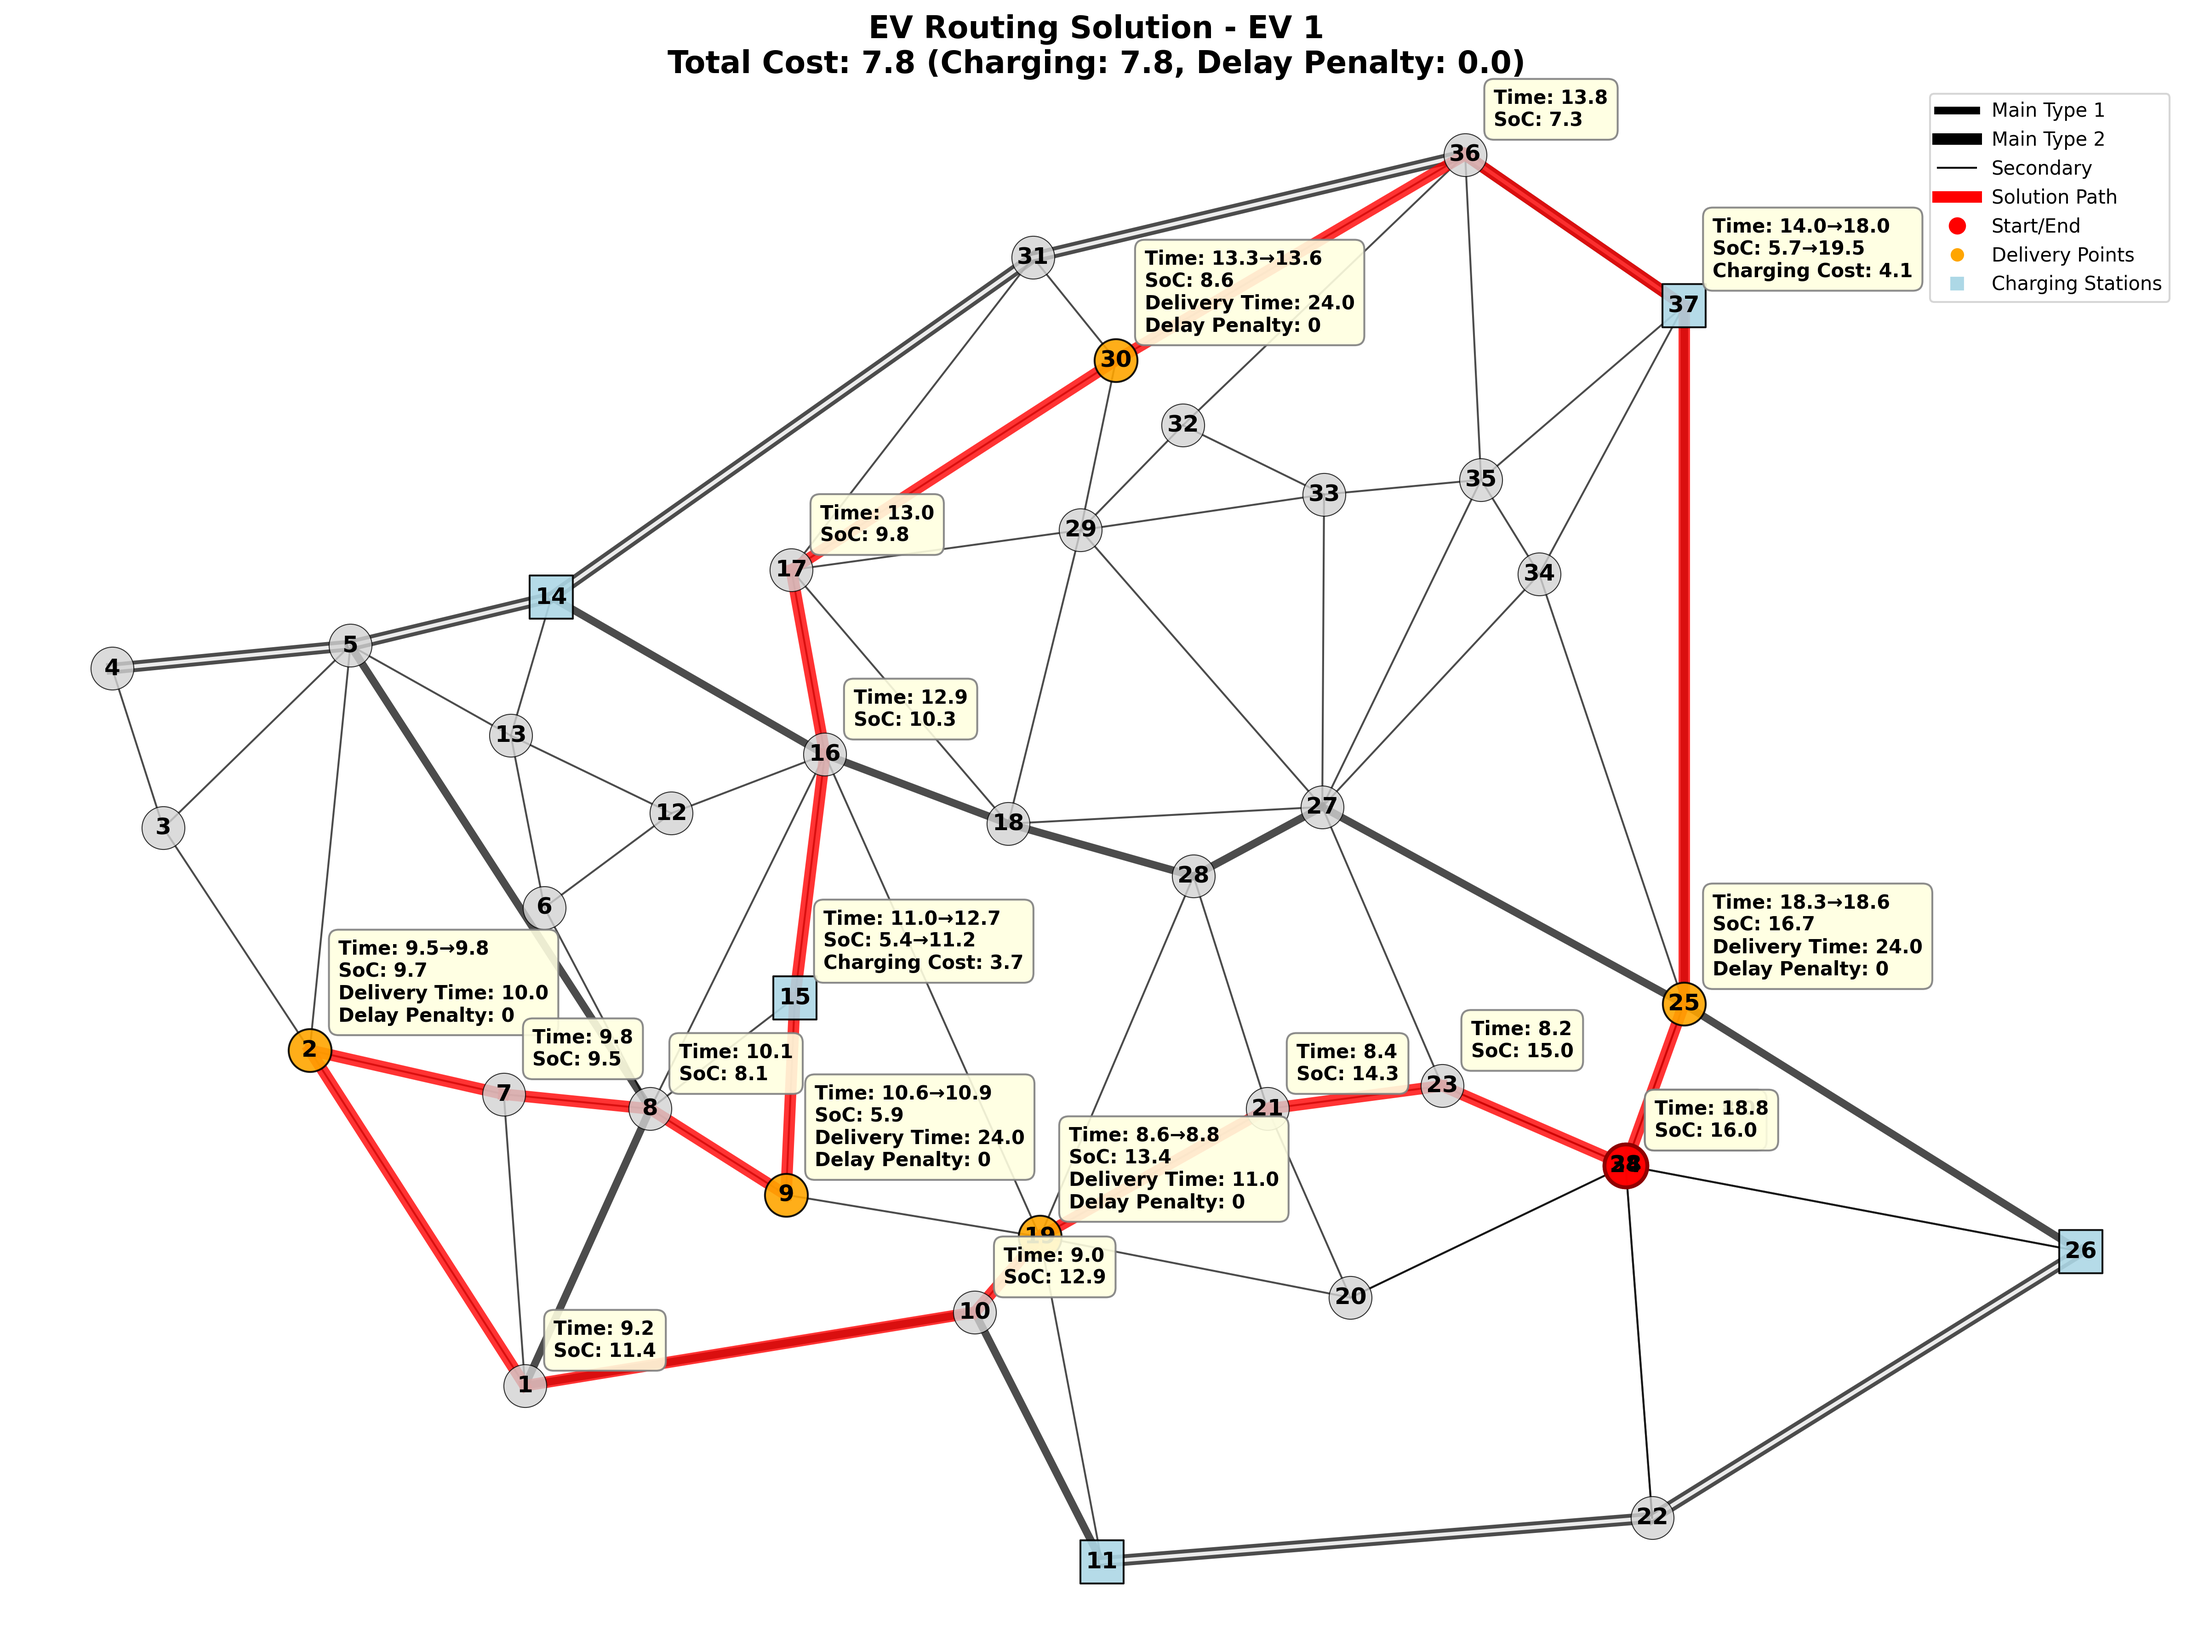
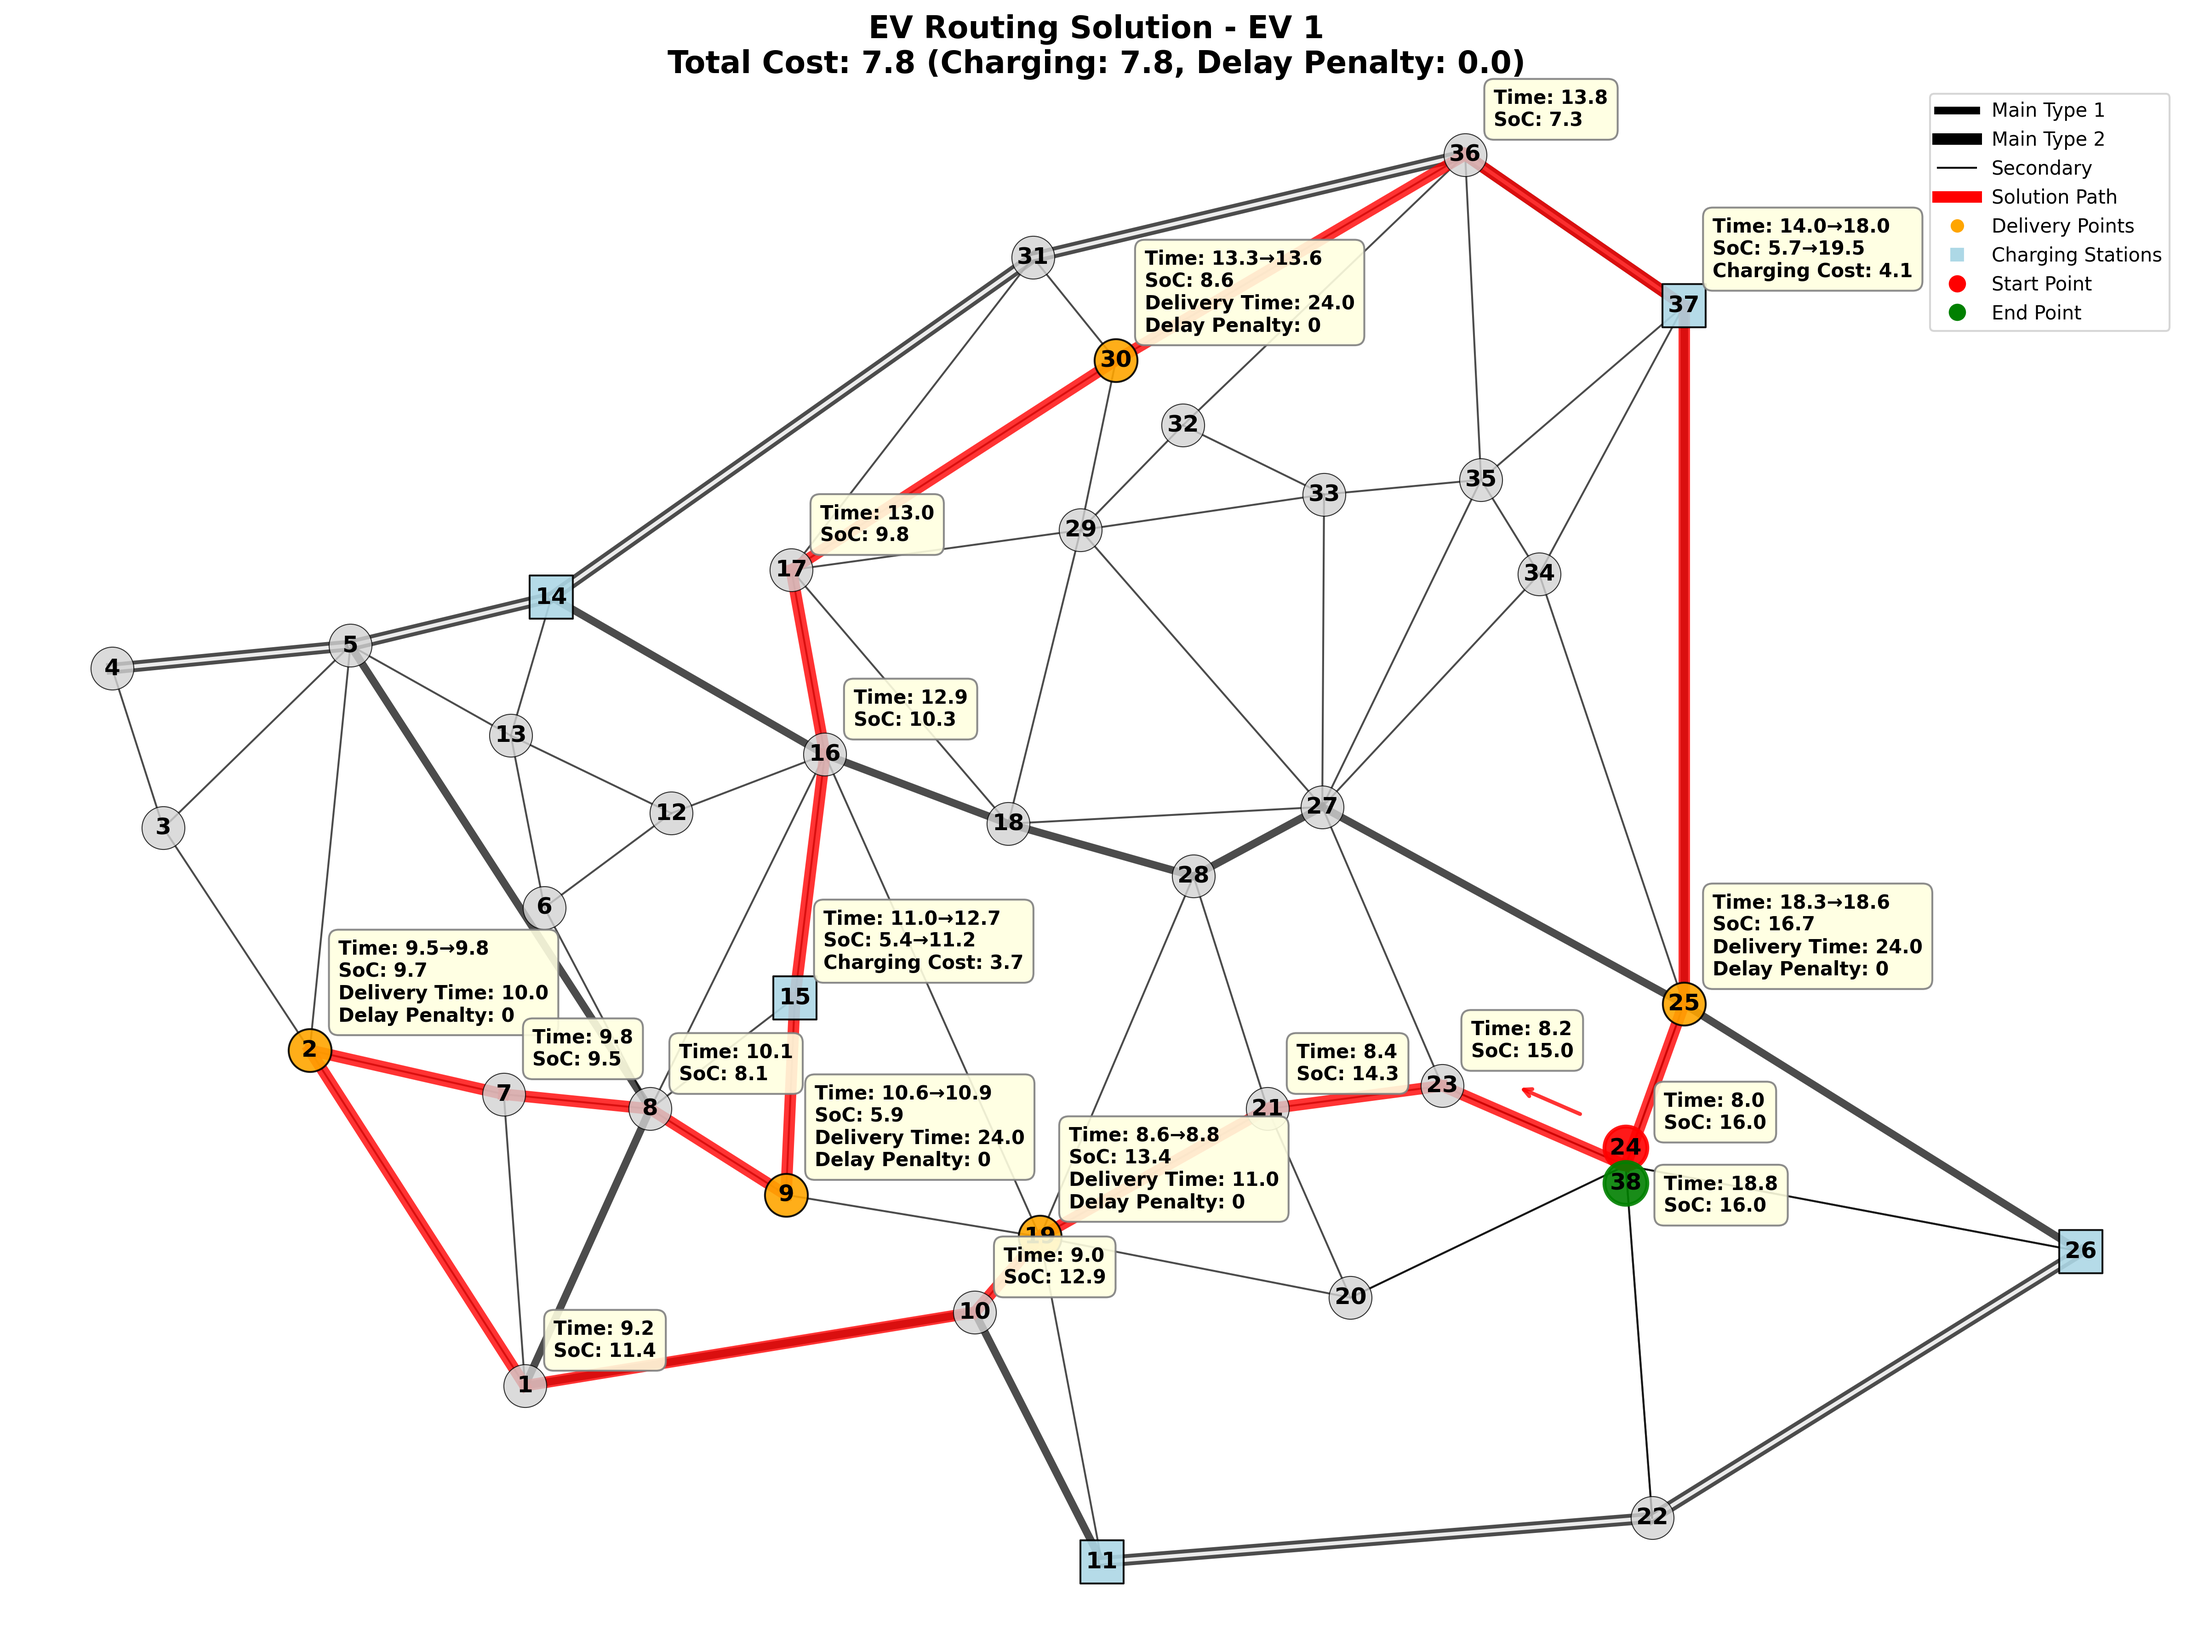
Updated solution map for S0 and S1

Changed region(s): [[0.7184, 0.6509, 0.8434, 0.7439], [0.8746, 0.124, 0.9996, 0.217]]

diff --git a/scripts/main_routing_model.py b/scripts/main_routing_model.py
@@ -223,11 +223,12 @@ def main(input_excel_file, output_prefix_solution=None, output_prefix_image=None
 if __name__ == "__main__":
 
     # Configuration
-    solvers = ["gurobi", "cplex"]
-    scenarios = [0, 1, 2]
-    evs = None  # evs = None to olve for all EVs; evs = [1] to solve for a specific EV
+    solvers = ["gurobi"]  # solvers = ["gurobi", "cplex"]
+    linearization = [True]  # linearization = [True, False]
+    scenarios = [1]
+    evs = None  # evs = None to solve for all EVs; evs = [1] to solve for a specific EV
     time_limit = 15
-    load_if_exists = False
+    load_if_exists = True
 
     # Input files
     input_excel_file = "../data/37-intersection map.xlsx"
@@ -247,15 +248,15 @@ if __name__ == "__main__":
 
     try:
         for solver in solvers:
-            linearization_options = [True, False] if solver == "gurobi" else [True]
+            linearization_options = linearization if solver == "gurobi" else [True]
             for linearize_constraints in linearization_options:
 
                 # Output files
                 sol_name = f"37-intersection map{' LIN' if linearize_constraints else ''}{' CPLEX' if solver == 'cplex' else ''}"
-                # output_prefix_solution = f"../solutions/{sol_name}"
-                output_prefix_solution = None  # Avoid saving solution
-                # output_prefix_image = f"../images/{sol_name}"
-                output_prefix_image = None  # Avoid saving image
+                output_prefix_solution = f"../solutions/{sol_name}"
+                # output_prefix_solution = None  # Avoid saving solution
+                output_prefix_image = f"../images/{sol_name}"
+                # output_prefix_image = None  # Avoid saving image
                 # output_prefix_model = f"../gurobi_parameters/{sol_name}"
                 output_prefix_model = None  # Avoid saving concrete model
                 # training_data_path = "../data/training_data.csv"
